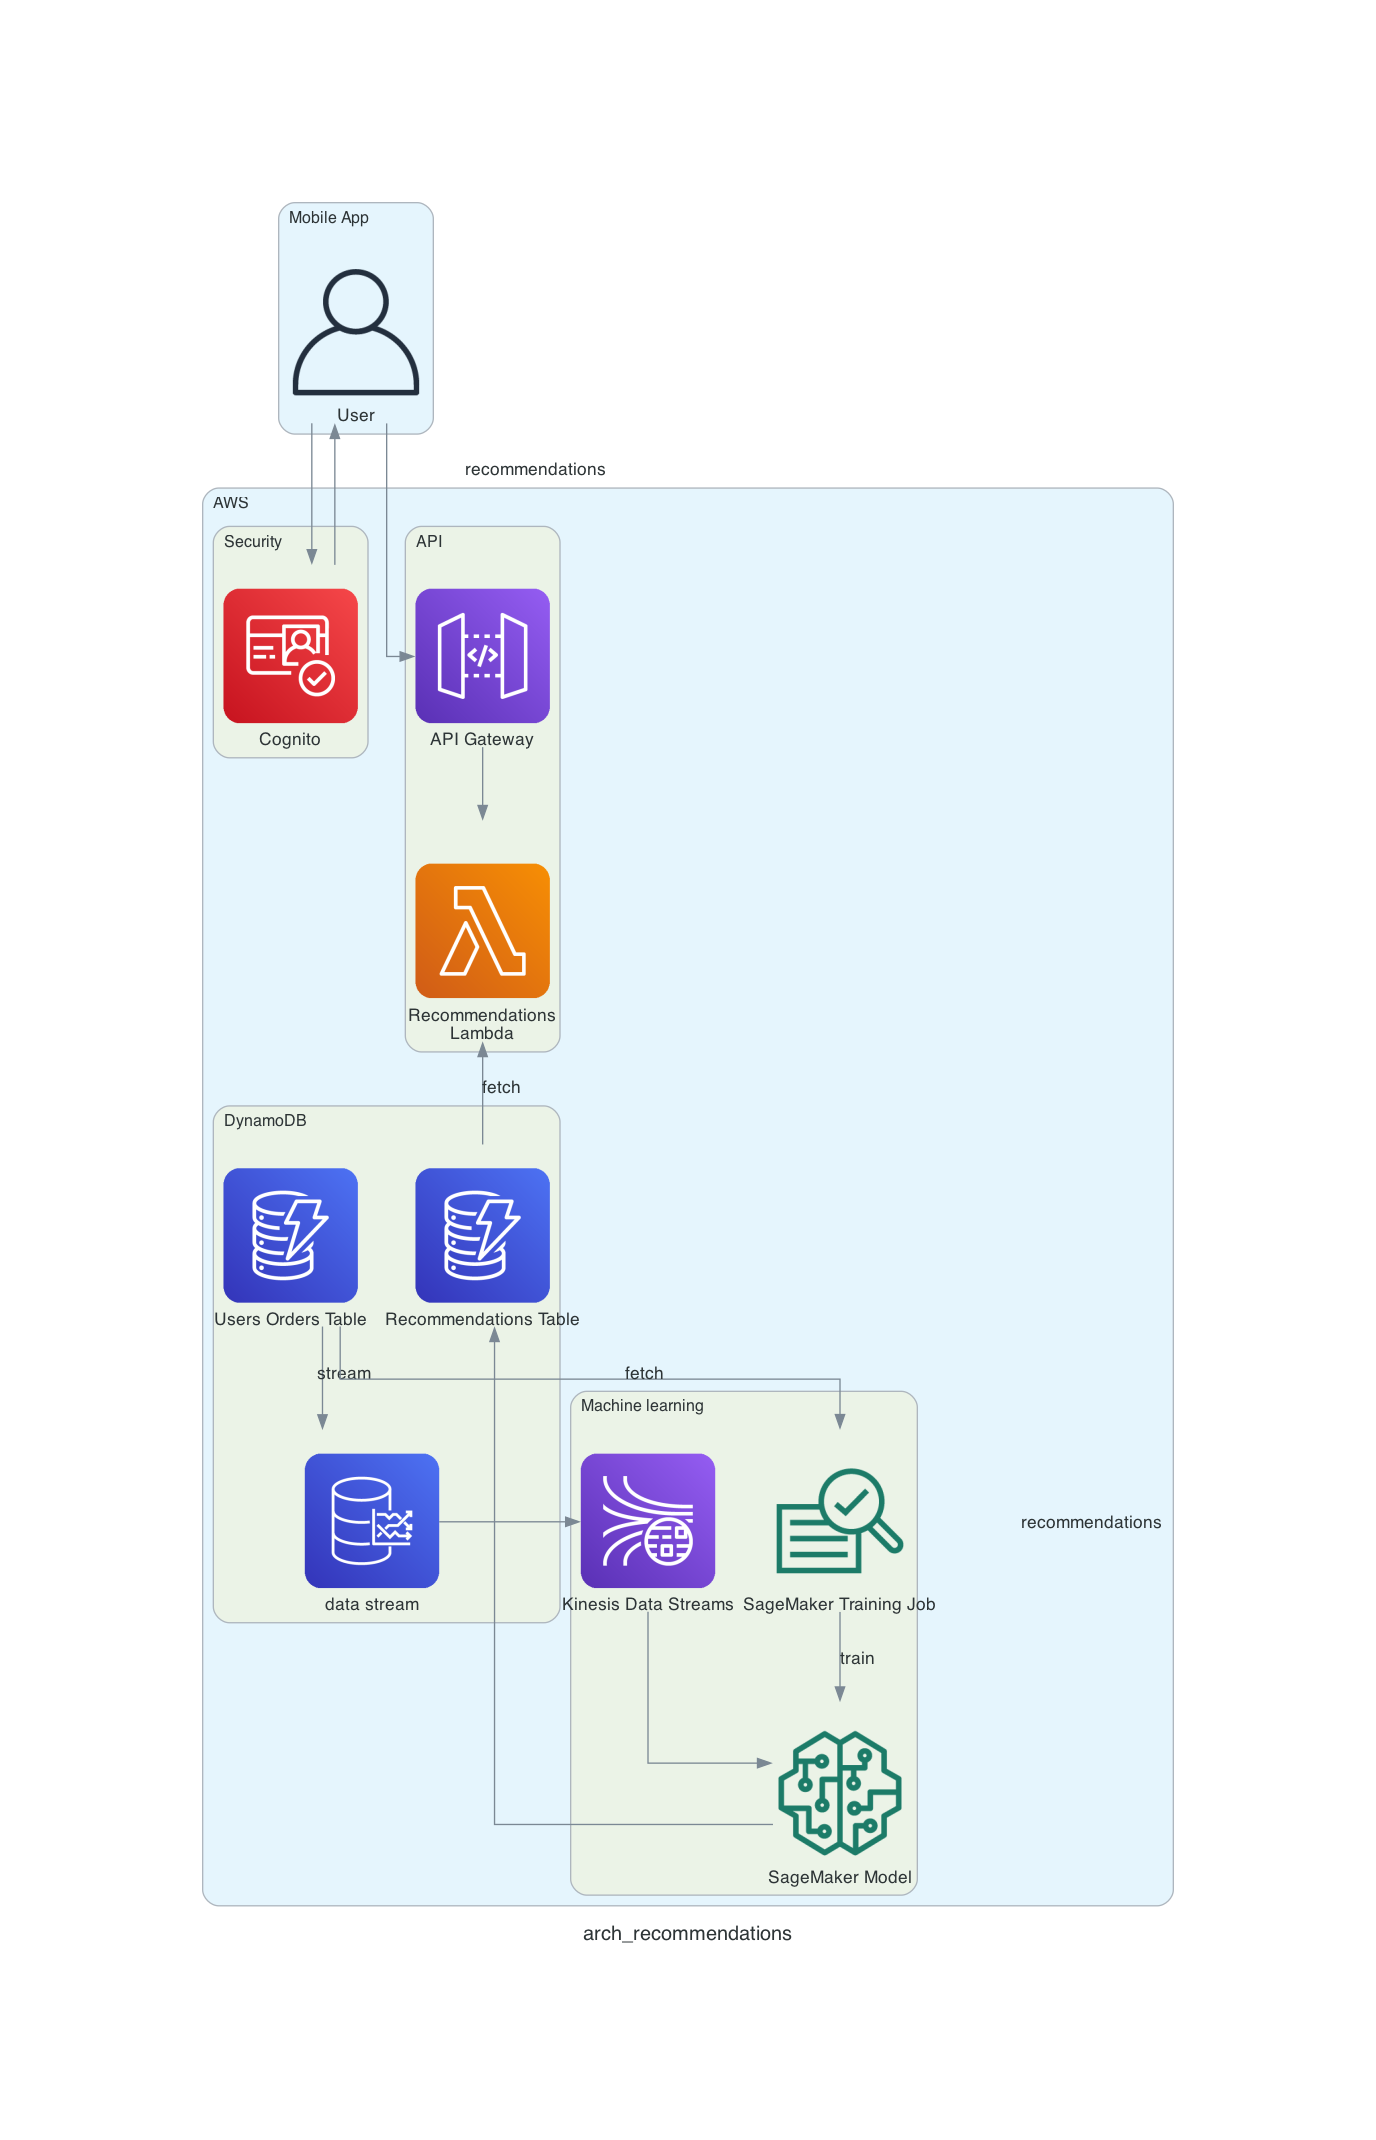
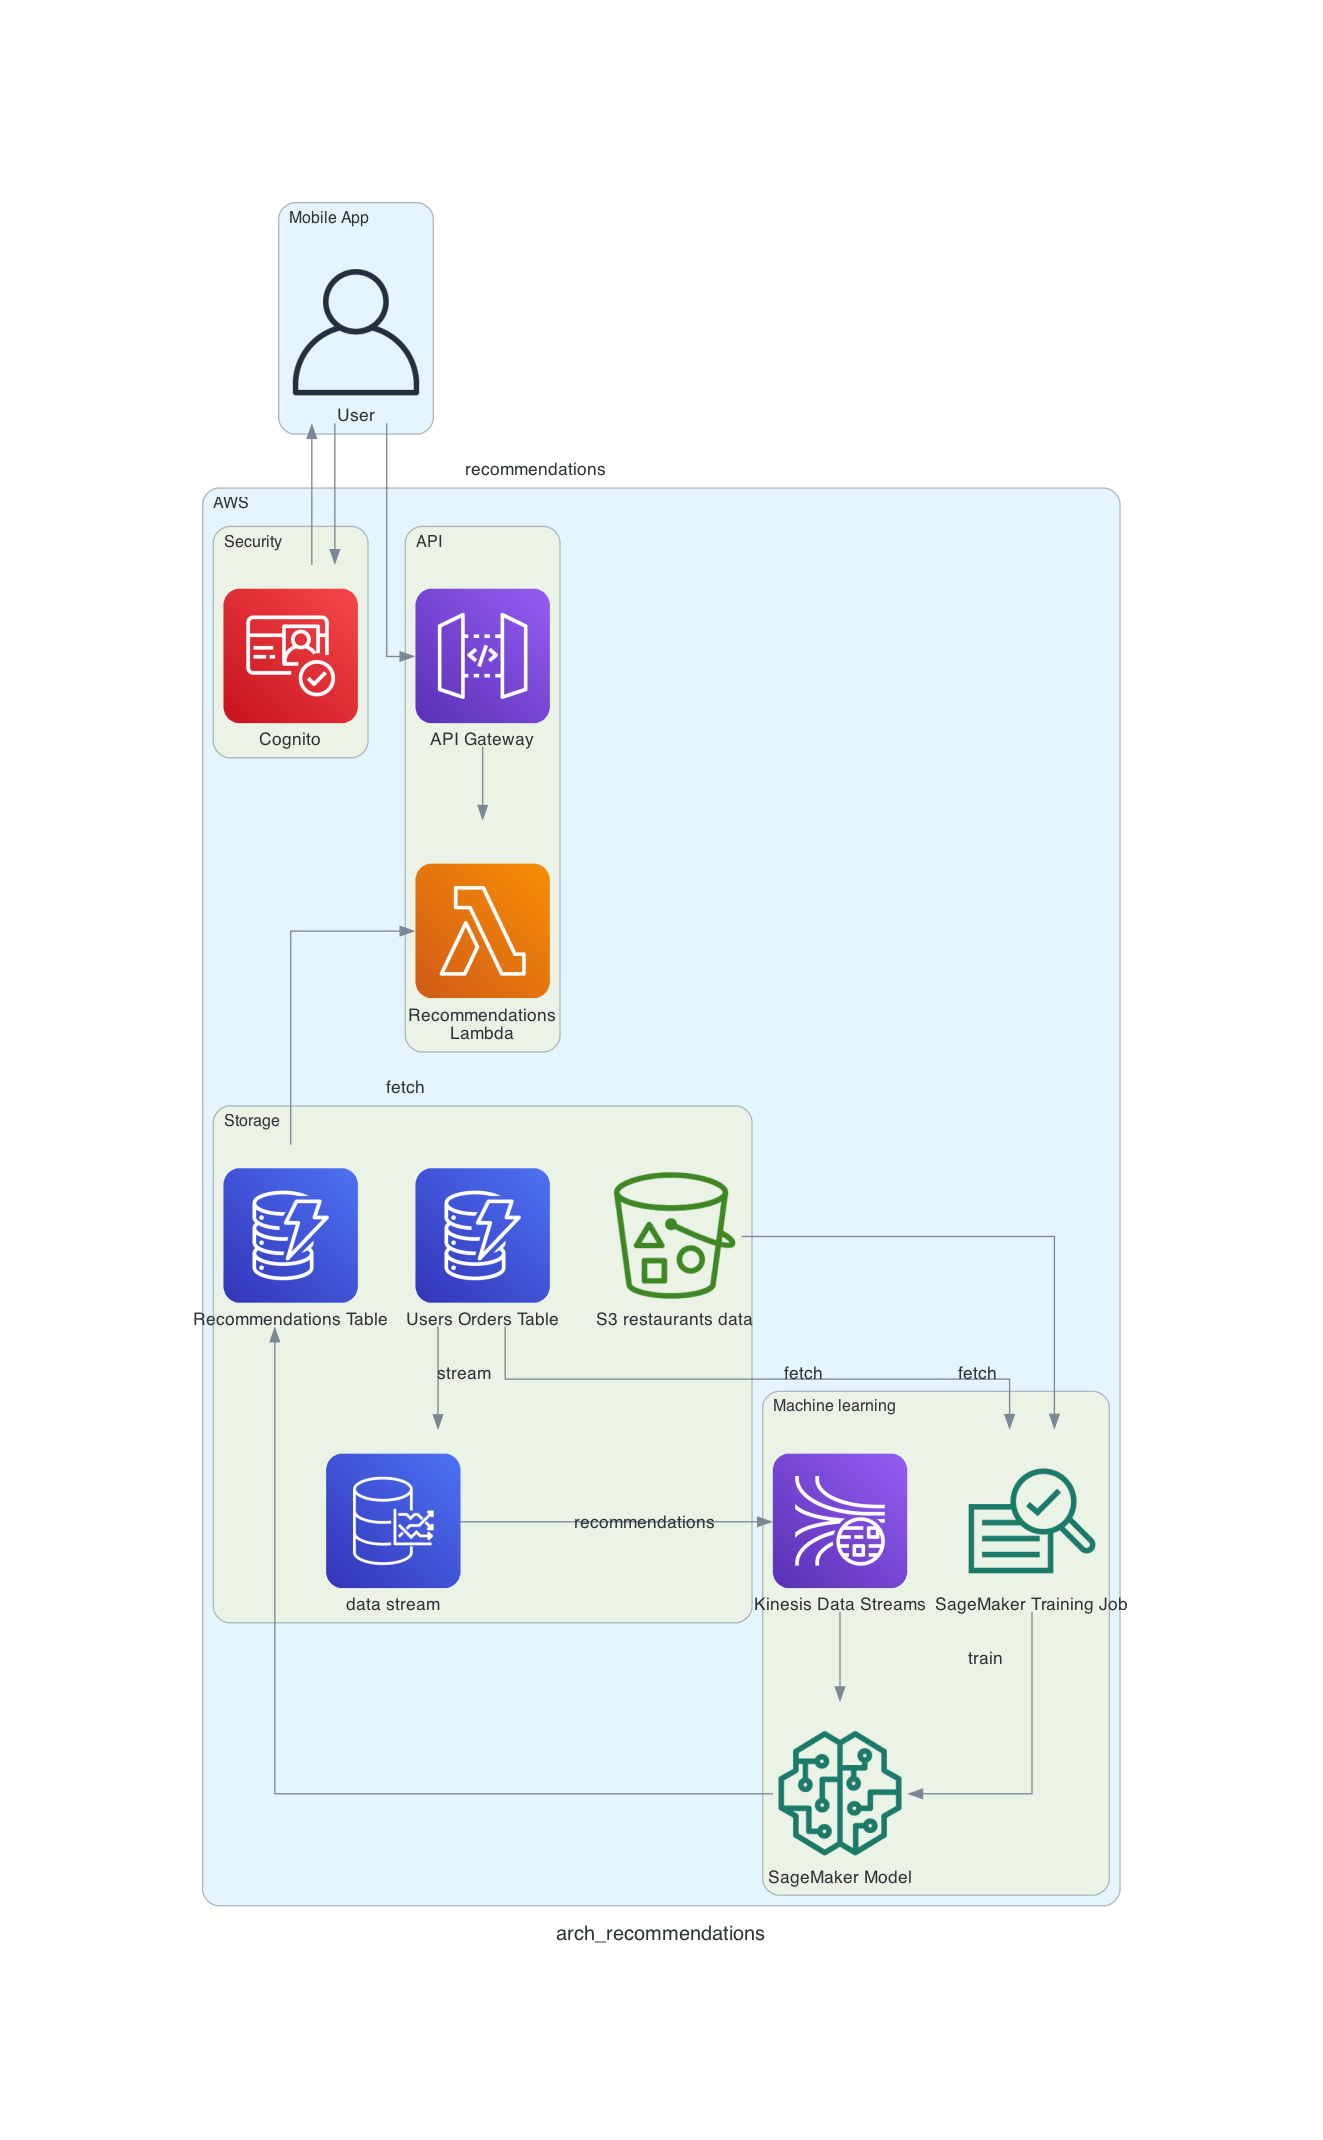
added s3 for restaurants

diff --git a/src/main/python/arch_recommendations.py b/src/main/python/arch_recommendations.py
@@ -7,6 +7,7 @@ from diagrams import Edge, Cluster
 from diagrams.aws.network import APIGateway
 from diagrams.aws.analytics import KinesisDataStreams
 from diagrams.aws.ml import Sagemaker, SagemakerModel, SagemakerTrainingJob
+from diagrams.aws.storage import SimpleStorageServiceS3BucketWithObjects as S3BucketWithObjects
 
 
 
@@ -28,12 +29,13 @@ with Diagram("arch_recommendations", show=False, direction="TB"):
             apiGateway >> Edge(label="") >> recommendationsLambda
 
         # DynamoDB
-        with Cluster("DynamoDB"):
+        with Cluster("Storage"):
             usersOrdersTable = Dynamodb("Users Orders Table")
             recommendationsTable = Dynamodb("Recommendations Table")
             timestream = Timestream("data stream")
             usersOrdersTable >> Edge(label="stream") >> timestream
             recommendationsLambda << Edge(label="fetch") << recommendationsTable
+            s3RestaurantData = S3BucketWithObjects("S3 restaurants data")
 
 
         with Cluster("Machine learning"):
@@ -45,4 +47,5 @@ with Diagram("arch_recommendations", show=False, direction="TB"):
             kinesisDataStreams >> Edge(label="") >> sageMakerModel
             sageMakerModel >> Edge(label="recommendations") >> recommendationsTable
             usersOrdersTable >> Edge(label="fetch") >> sagemakerTrainingJob
+            s3RestaurantData >> Edge(label="fetch") >> sagemakerTrainingJob
             sagemakerTrainingJob >> Edge(label="train") >> sageMakerModel
